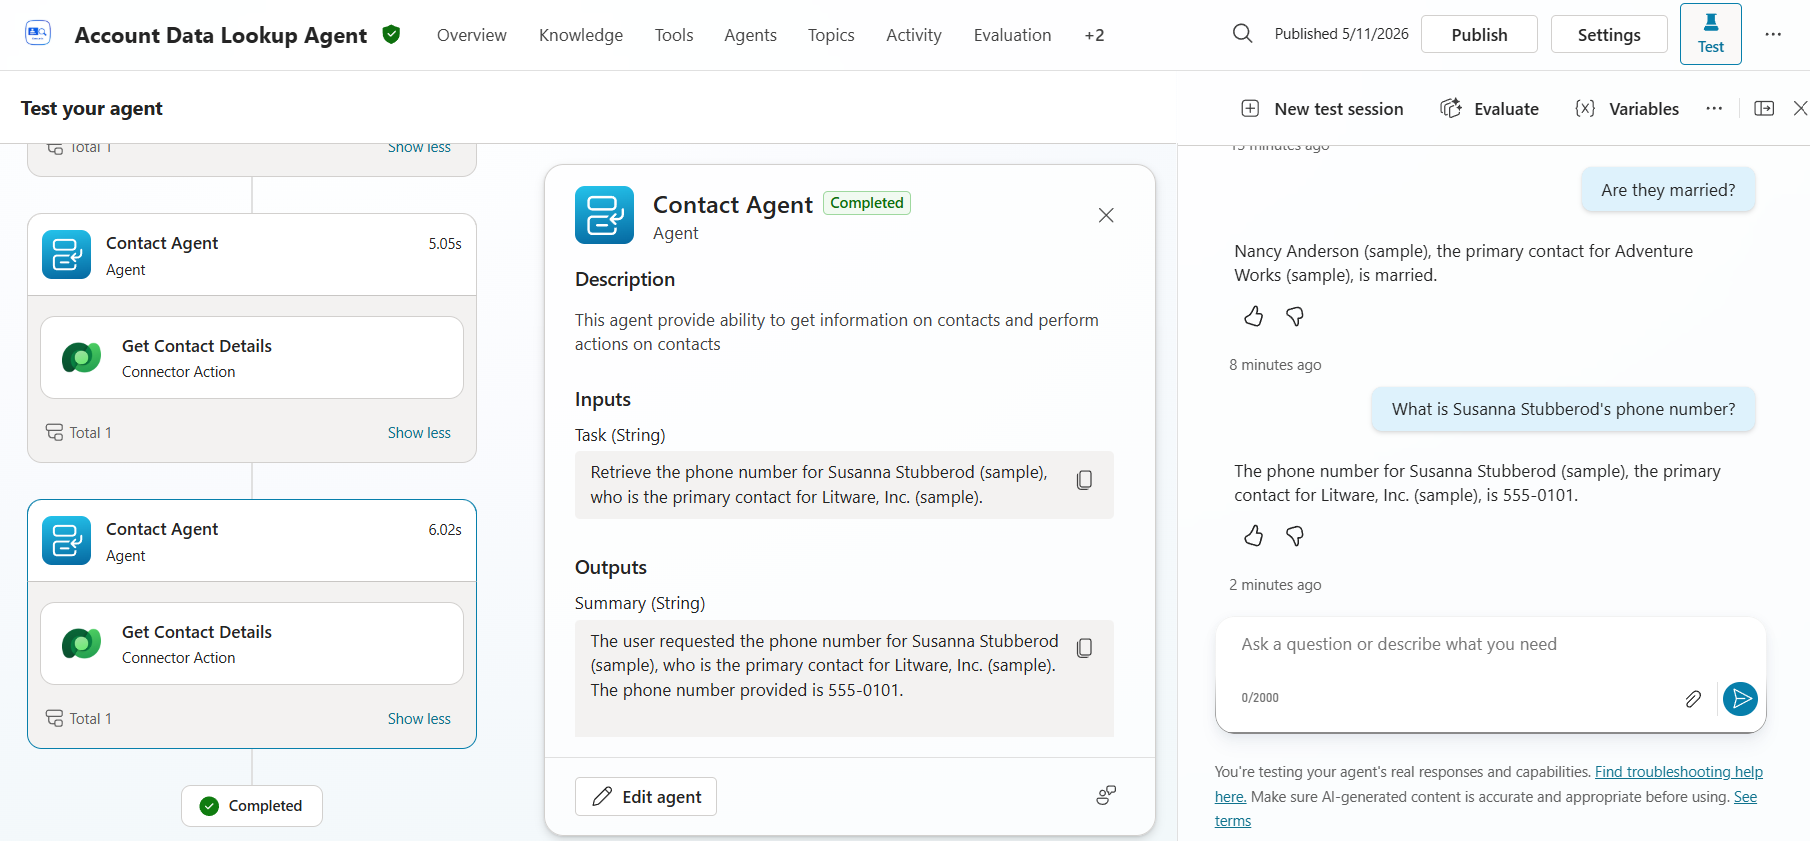
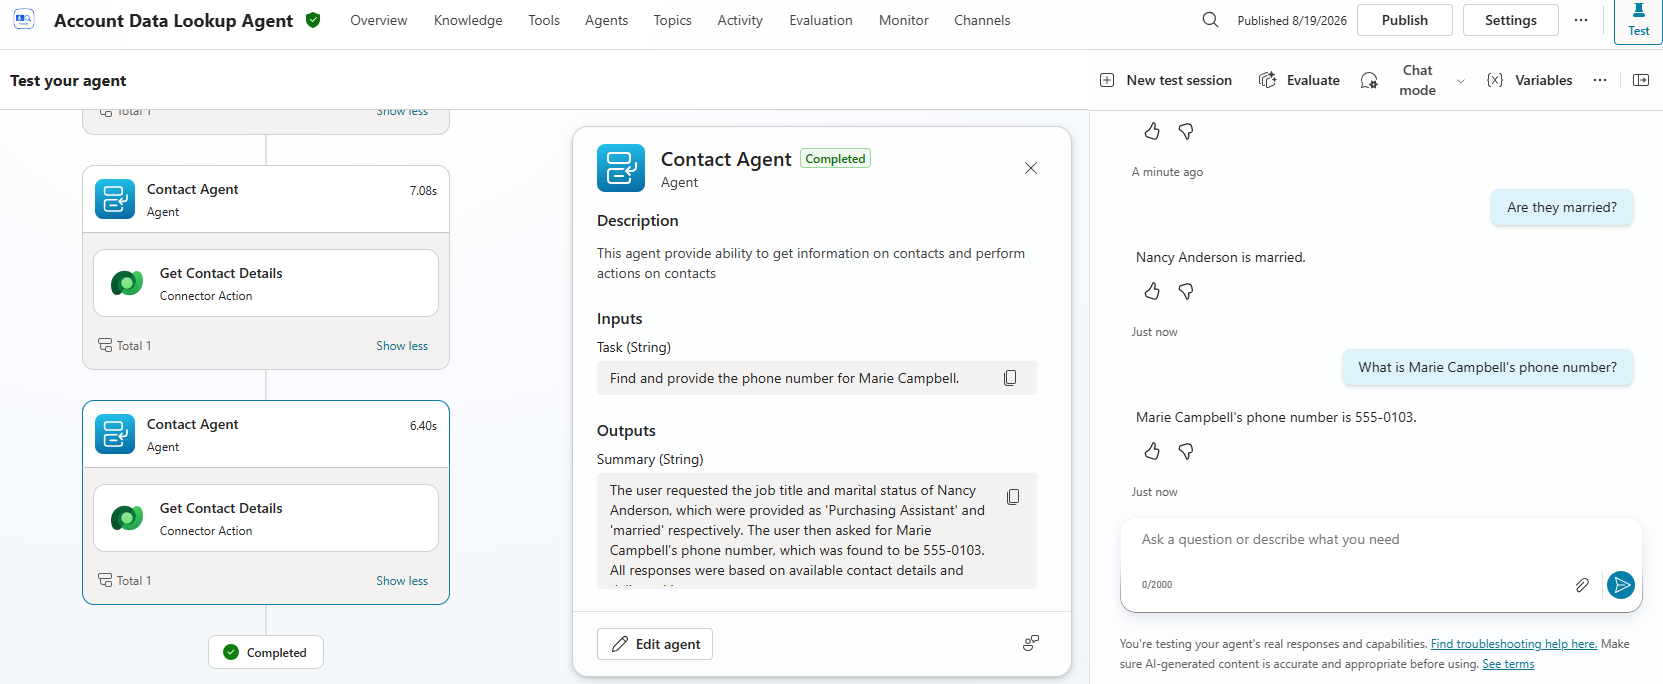
mcs-instructions UC2: make the direct-to-Contact demo order-independent
The UC2 demonstration assumed the 4 Texas accounts always return in the same order, so 'the 2nd one' and every value derived from it (Nancy Anderson / Susanna Stubberod / Litware) was hardcoded. That doesn't generalize - in other runs the 2nd account resolves to a different contact.

Changes: (1) drop 'Confirm the agent answers correctly (Nancy Anderson is married)' from the 'Are they married?' turn; (2) qualify the Get rationale retrieved-values with 'e.g.'; (3) switch the direct-to-contact prompt from 'Susanna Stubberod' (who can be the 2nd account's primary contact, defeating the point) to 'Marie Campbell', and update the screenshot + dependent bullets/NOTE to match (contact-only Task, no account enrichment).

diff --git a/labs/mcs-instructions/README.md b/labs/mcs-instructions/README.md
@@ -515,12 +515,12 @@ Open the **Account Data Lookup Agent** in Copilot Studio and walk through each o
     Are they married?
     ```
 
-    Confirm the agent answers correctly (Nancy Anderson is married). Now scroll to the bottom of the activity tracker item for this turn and select **Get rationale**. The agent will produce a plain-language explanation of *why* it chose the tools it chose and *how* it built the plan.
+    Scroll to the bottom of the activity tracker item for this turn and select **Get rationale**. The agent will produce a plain-language explanation of *why* it chose the tools it chose and *how* it built the plan.
 
     ![Activity tracker — Get rationale showing planner's plan in plain language](images/uc2-activity-get-rationale.png)
 
     Notice in the screenshot:
-    - **The Summary at the top recaps what happened across the recent turns** — it names the accounts, the contact, and the specific values the agent retrieved (`Purchasing Assistant`, `66`, `married`).
+    - **The Summary at the top recaps what happened across the recent turns** — it names the accounts, the contact, and the specific values the agent retrieved (e.g. `Purchasing Assistant`, `66`, `married`).
     - **The Rationale section breaks the plan into discrete reasoning steps**, in the planner's own words:
       - *"Identify all accounts based in Texas from the provided data."*
       - *"Extract and list all available details for each Texas-based account."*
@@ -533,17 +533,17 @@ Open the **Account Data Lookup Agent** in Copilot Studio and walk through each o
 1. **Pivot directly to a contact.** Up to this point every prompt has started from accounts. This one enters from the **contact** side.
 
     ```text
-    What is Susanna Stubberod's phone number?
+    What is Marie Campbell's phone number?
     ```
 
     Expand the **activity tracker** for this turn and notice that the planner went **directly to the Contact Agent** — there is no `Account Agent` block, and no `Find Account` call.
 
-    ![Activity tracker — direct dispatch to Contact Agent for Susanna Stubberod's phone number](images/uc2-activity-direct-contact.png)
+    ![Activity tracker — direct dispatch to Contact Agent for Marie Campbell's phone number](images/uc2-activity-direct-contact.png)
 
     Notice in the screenshot:
-    - **No Account Agent in the activity trace.** The planner read the user's request, recognized that the subject is a *person* (`Susanna Stubberod`), and dispatched straight to the `Contact Agent`. It didn't search accounts first because the question doesn't require one.
-    - **The Task input names both the contact and their account context**: *"Retrieve the phone number for Susanna Stubberod (sample), who is the primary contact for Litware, Inc. (sample)."* The planner enriched the Task with the related account information it discovered along the way, so the Contact Agent has full context for its lookup.
-    - **The Summary mirrors the answer back to the parent** with the same enrichment, naming both Susanna and Litware, Inc.
+    - **No Account Agent in the activity trace.** The planner read the user's request, recognized that the subject is a *person* (`Marie Campbell`), and dispatched straight to the `Contact Agent`. It didn't search accounts first because the question doesn't require one.
+    - **The Task input is a direct contact lookup**: *"Find and provide the phone number for Marie Campbell."* The planner didn't need to resolve an account first — the contact name alone was enough to dispatch to the `Contact Agent`.
+    - **The Summary mirrors the answer back to the parent** — the phone number the Contact Agent found for Marie Campbell.
     - **Two Contact Agent calls visible** — the activity tracker still shows the previous turn's Contact Agent invocation as well, since the test session is the same conversation.
 
     > [!NOTE]
@@ -551,7 +551,7 @@ Open the **Account Data Lookup Agent** in Copilot Studio and walk through each o
     >
     > - *"What are the accounts in Texas?"* → `Account Agent`
     > - *"Who's the primary contact for Adventure Works?"* → `Account Agent` → `Contact Agent` (chained)
-    > - *"What is Susanna Stubberod's phone number?"* → `Contact Agent` directly
+    > - *"What is Marie Campbell's phone number?"* → `Contact Agent` directly
     > - *"What's the phone number of every primary contact in Texas?"* → `Account Agent` → `Contact Agent` (looped, one contact per account)
     >
     > The same set of tools answers every direction of question. **You don't write a tool for each pivot — you write good descriptions on each tool, and the planner finds the path.** That's the difference between an agent you have to extend for every new question and one that flexes to whatever the user asks.
